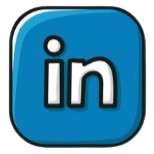
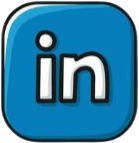
Added shadows

diff --git a/index.html b/index.html
@@ -95,14 +95,14 @@
             <div class="row">
                 <img src="images/gmail_icon-removebg-preview.png" alt="Email icon" />
             </div>
+            <div onclick="window.open('https://github.com/DiyanKalaydzhiev23','mywindow');" class="row">
+                <img src="images/icons8-github-squared-200-removebg-preview.png" alt="GitHub icon" />
+            </div>
             <div onclick="window.open('https://www.linkedin.com/in/dian-kalaydzhiev-250577223/','mywindow');" class="row">
                 <img src="images/linkedIn_icon-removebg-preview.png" alt="linkedin icon" />
             </div>
             <div onclick="window.open('https://www.instagram.com/d_kalaydzhiev/','mywindow');" class="row">
                 <img src="images/instagram_icon-removebg-preview.png" alt="Instagram icon" />
-            </div>
-            <div onclick="window.open('https://github.com/DiyanKalaydzhiev23','mywindow');" class="row">
-                <img src="images/instagram_icon-removebg-preview.png" alt="GitHub icon" />
             </div>
             <div onclick="window.open('https://www.instagram.com/d_kalaydzhiev/','mywindow');" class="row">
                 <img src="images/in_-_resized_2_-removebg-preview.png" alt="Telegram icon" />

diff --git a/styles/contacts.css b/styles/contacts.css
@@ -24,9 +24,11 @@
 }
 
 .row img {
-    width: 120px;
+    width: 110px;
     height: auto; 
     margin: 1vw 0; 
+    border-radius: 31px;
+    box-shadow: 0 8px 16px rgba(0, 0, 0, 0.3);
 }
 
 @media (max-width: 768px) {
@@ -53,6 +55,7 @@
 
     .row img {
         width: 90px;
+        border-radius: 25px;
     }
 }
 
@@ -66,5 +69,6 @@
 
     .row img {
         width: 80px; 
+        border-radius: 25px;
     }
 }
